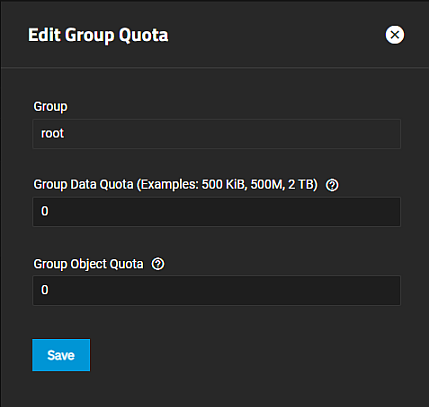
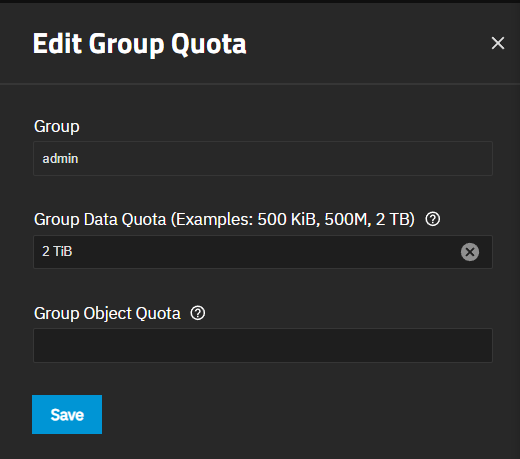
DOCS-2647 Update User and Group UI Ref Content
This commit updates the screenshots for user and group quotas, adds missing screenshots and content , and updates the settings and button descriptions to describe rather than instruct how to use them.

(cherry picked from commit 3db5910825ee510696d6ac558b915124d3840d82)

diff --git a/content/Datasets/Quotas/QuotaScreens.md b/content/Datasets/Quotas/QuotaScreens.md
@@ -12,47 +12,45 @@ doctype: reference
 TrueNAS allows setting data or object quotas for user accounts and groups cached on, or connected to the system.
 
 ## User Quotas Screen
-Select **Manage User Quotas** on the **Dataset Space Management** widget to open the **User Quotas** screen.
-The **User Quotas** screen displays names and quota data of user accounts cached on or connected to the system.
-If no users exist, the screen displays **No User Quotas** in the center of the screen.
 
-{{< trueimage src="/images/SCALE/Datasets/UserQuotasNoQuotasSCALE.png" alt="User Quotas Screen" id="User Quotas Screen" >}}
+**Manage User Quotas** on the **Dataset Space Management** card opens the **User Quotas** screen.
+The **User Quotas** screen shows the names and quota data for user accounts cached on or connected to the system.
+When no user quotas exist, the screen shows **No Search Results** and **No matching results found** in the center of the screen.
 
-The **Show All Users** toggle button displays all users or hides built-in users.
+{{< trueimage src="/images/SCALE/Datasets/UserQuotasNoQuotas.png" alt="User Quotas Screen Without Quotas" id="User Quotas Screen Withoug Quotas" >}}
 
-{< trueimage src="/images/SCALE/Datasets/UserQuotasDataQuotaSCALE.png" alt="User Quotas List View" id="User Quotas List View" >}}
+**Show All Users** shows the hidden builtin user quotas for the root and current logged-in admin user.
 
-**Add** opens the **[Set User Quotas](#set-user-quotas-screen)** screen.
+{{< trueimage src="/images/SCALE/Datasets/UserQuotaScreenWithBuiltinUsers.png" alt="User Quotas Showing Builtin Users" id="User Quotas Showing Builtin Users" >}}
 
-If you have several user quotas set up, the **Actions** options include **Set Quotas (Bulk)**.
+**Add** opens the **[Add User Quotas](#add-user-quotas-screen)** screen.
 
-Click on a user name to display the **[Edit User](#edit-user-configuration-window)** window.
+The **Edit** icon for a user opens the **[Edit User Quota ](#edit-user-configuration-window)** screen.
 
-### Edit User Configuration Window
-The **Edit User Quota** window allows you to modify the user data quota and user object quota values for an individual user.
+### Show All Users Dialogs
 
-{{< trueimage src="/images/SCALE/Datasets/EditUserQuotasSCALE.png" alt="Edit User Quota" id="Edit User Quota" >}}
+The **Show All Users** toggle opens the **Show All Users** dialog.
 
-Click **Save** to save changes or click the "X" to close the window without saving.
-{{< truetable >}}
-| Settings | Description |
-|----------|-------------|
-| **User** | Displays the name of the selected user. |
-| **User Data Quota (Examples: 500KiB, 500M, 2 TB)** | Enter the amount of disk space the selected user can use. Entering **0** allows the user to use all disk space. You can enter human-readable values such as 50 GiB, 500M, 2 TB, etc. If units are not specified, the value defaults to bytes.  |
-| **User Object Quota** | Enter the number of objects the selected user can own. Entering **0** allows unlimited objects. |
-{{< /truetable >}}
+{{< trueimage src="/images/SCALE/Datasets/ShowAllUsersDialog.png" alt="Show All Users Dialog" id="Show All Users Dialog" >}}
 
-### Set User Quotas Screen
-To display the **Set User Quotas** screen click the **Add** button.
+Clicking the **Show All Users** toggle again to hide builtin users, opens the **Filter Users** dialog.
 
-{{< trueimage src="/images/SCALE/Datasets/AddUserQuotasSetQuotasSCALE.png" alt="Set User Quotas" id="Set User Quotas" >}}
+{{< trueimage src="/images/SCALE/Datasets/FilterUsersDialog.png" alt="Filter Users Dialog" id="Filter Users Dialog" >}}
+
+**Filter** hides the builtin users on the **Users Quotas** screen.
+
+### Add User Quotas Screen
+
+The **Add User Quotas** screen shows settings in two sections: **Set Quotas** and **Apply Quotas to Selected Users**.
+
+{{< trueimage src="/images/SCALE/Datasets/AddUserQuotaScreen.png" alt="Add User Quotas" id="Add User Quotas" >}}
 
 {{< expand "Set Quotas Settings" "v" >}}
 {{< truetable >}}
 | Settings | Description |
 |----------|-------------|
-| **User Data Quota (Examples: 500KiB, 500M, 2 TB)** | Enter the amount of disk space the selected user can use. Entering **0** allows the user to use all disk space. You can enter human-readable values such as 50 GiB, 500M, 2 TB, etc. If units are not specified, the value defaults to bytes. |
-| **User Object Quota** | Enter the number of objects the selected user can own. Entering **0** allows unlimited objects. |
+| **User Data Quota (Examples: 500KiB, 500M, 2 TB)** | Specifies the amount of disk space the selected user can use. Entering **0** allows using all disk space. Values are entered as 50 GiB, 500M, 2 TB, etc. Not specifying a value defaults to bytes. |
+| **User Object Quota** | Specfies the number of objects the selected user can own. Entering **0** allows unlimited objects. |
 {{< /truetable >}}
 {{< /expand >}}
 
@@ -60,56 +58,71 @@ To display the **Set User Quotas** screen click the **Add** button.
 {{< truetable >}}
 | Settings | Description |
 |----------|-------------|
-| **Apply To Users** | Select the users from the dropdown list of options. |
+| **Apply To Users** | Sets the user from the dropdown list of options. |
 {{< /truetable >}}
-
-Click **Save** to set the quotas or click the "X" to exit without saving.
 {{< /expand >}}
 
-## Group Quotas Screens
-Click **Manage Group Quotas** on the **Dataset Space Management** widget to open the **Group Quotas** screen.
+**Save** sets the quotas and closes the screen.
+Clicking the **X** closes the screen without saving changes.
 
-The **Group Quotas** screen displays the names and quota data of any groups cached on or connected to the system.
-If no groups exist, the screen displays **No Group Quotas** in the center of the screen.
+### Edit User Configuration Window
 
-{{< trueimage src="/images/SCALE/Datasets/GroupQuotasNoQuotaSCALE.png" alt="Group Quotas Screen" id="Group Quotas Screen" >}}
+The **Edit User Quota** window allows you to modify the user data quota and user object quota values for an individual user.
 
-The **Show All Groups** toggle button displays all groups or hides built-in groups. **Add** displays the **[Set Group Quotas](#set-group-quotas-screen)** screen.
+{{< trueimage src="/images/SCALE/Datasets/EditUserQuotaScreen.png" alt="Edit User Quota" id="Edit User Quota" >}}
 
-If you have several group quotas set up, the **Actions** options include **Set Quotas (Bulk)**.
+**Save** sets the quota changes and closes the screen.
+Clicking the "X" closes the screen without saving changes.
 
-Click on a group name to display the **[Edit Group](#edit-group-configuration-window)** window.
-
-!{{< trueimage src="/images/SCALE/Datasets/GroupQuotasVideoQuotaSCALE.png" alt="Group Quotas List View" id="Group Quotas List View" >}}
-
-### Edit Group Configuration Window
-The **Edit Group** window allows you to modify the group data quota and group object quota values for an individual group.
-
-{{< trueimage src="/images/SCALE/Datasets/EditGroupQuotasScreen.png" alt="Edit Group Quota" id="Edit Group Quota" >}}
-
-Click **Save** to set the quotas or click the "X" to exit without saving.
-
-{{< expand "Edit Group Configuration Settings" "v" >}}
 {{< truetable >}}
 | Settings | Description |
 |----------|-------------|
-| **Group** | Displays the name of the selected group(s).  |
-| **Group Data Quota (Examples: 500KiB, 500M, 2 TB)** | Enter the amount of disk space the selected group can use. Entering **0** allows the group to use all disk space. You can enter human-readable values such as 50 GiB, 500M, 2 TB, etc. If units are not specified, the value defaults to bytes. |
-| **Group Object Quota** | Enter the number of objects the selected group can own or use. Entering **0** allows unlimited objects. |
+| **User** | Shows the name of the selected user and it is not editable. |
+| **User Data Quota (Examples: 500KiB, 500M, 2 TB)** | Specifies the amount of disk space the selected user can use. Entering **0** allows using all disk space. Values are entered as 50 GiB, 500M, 2 TB, etc. Not specifying a value defaults to bytes. |
+| **User Object Quota** | Specifies the number of objects the selected user can own. Entering **0** allows unlimited objects. |
 {{< /truetable >}}
-{{< /expand >}}
 
-### Set Group Quotas Screen
-To display the **Set Group Quotas** screen, click the **Add** button.
+## Group Quotas Screens
 
-{{< trueimage src="/images/SCALE/Datasets/AddGroupQuotasSetQuotaSCALE.png" alt="Set Group Quotas" id="Set Group Quotas" >}}
+**Manage Group Quotas** on the **Dataset Space Management** card opens the **Group Quotas** screen.
+
+The **Group Quotas** screen shows the names and quota data of any groups cached on or connected to the system.
+When no group quotas exist, the screen shows **No Search Results** and **No matching results found** in the center of the screen.
+
+{{< trueimage src="/images/SCALE/Datasets/GroupQuotasScreenNoQuotas.png" alt="Group Quotas Screen Without Quotas" id="Group Quotas Screen Witout Quotas" >}}
+
+The **Show All Groups** toggle opens the **Show All Groups** dialog. **Show** shows the hidden builtin user group quotas for the root and current logged-in admin user.
+
+{{< trueimage src="/images/SCALE/Datasets/GroupQuotaScreenWithBuiltinGroups.png" alt="User Quotas Showing Builtin Groups" id="User Quotas Showing Builtin Groups" >}}
+
+**Add** opens the **[Add Group Quotas](#add-group-quotas-screen)** screen.
+
+The **Edit** icon for a group opens the **[Edit Group Quota ](#edit-group-configuration-window)** screen.
+
+### Show All Groups Dialogs
+
+The **Show All Groups** toggle opens the **Show All Groups** dialog.
+
+{{< trueimage src="/images/SCALE/Datasets/ShowAllGroupsDialog.png" alt="Show All Groups Dialog" id="Show All Groups Dialog" >}}
+
+Clicking the **Show All Groups** toggle again to hide builtin users, opens the **Filter Groups** dialog.
+
+{{< trueimage src="/images/SCALE/Datasets/FilterGroupsDialog.png" alt="Filter Groups Dialog" id="Filter Gilter Dialog" >}}
+
+**Filter** hides the builtin groups on the **Group Quotas** screen.
+
+### Add Group Quotas Screen
+
+The **Add Group Quotas** screen shows settings in two sections: **Set Quotas** and **Apply Quotas to Selected Groups**.
+
+{{< trueimage src="/images/SCALE/Datasets/AddGroupQuotasScreen.png" alt="Add Group Quotas Screen" id="Add Group Quotas Screen" >}}
 
 {{< expand "Set Quotas Settings" "v" >}}
 {{< truetable >}}
 | Settings | Description |
 |----------|-------------|
-| **Group Data Quota (Examples: 500KiB, 500M, 2 TB)** | Enter the amount of disk space the selected group can use. Entering **0** allows the group to use all disk space. You can enter human-readable values such as 50 GiB, 500M, 2 TB, etc. If units are not specified, the value defaults to bytes. |
-| **Group Object Quota** | Enter the number of objects the selected group can own or use. Entering **0** allows unlimited objects. |
+| **Group Data Quota (Examples: 500KiB, 500M, 2 TB)** | Specifies the amount of disk space the selected group can use. ntering **0** allows using all disk space. Values are entered as 50 GiB, 500M, 2 TB, etc. Not specifying a value defaults to bytes. |
+| **Group Object Quota** | Specifies the number of objects the selected group can own or use. Entering **0** allows unlimited objects. |
 {{< /truetable >}}
 {{< /expand >}}
 
@@ -117,6 +130,28 @@ To display the **Set Group Quotas** screen, click the **Add** button.
 {{< truetable >}}
 | Settings | Description |
 |----------|-------------|
-| **Apply To Groups** | Select groups from the dropdown list of options. |
+| **Apply To Groups** | Sets the group from the dropdown list of options. |
+{{< /truetable >}}
+{{< /expand >}}
+
+**Save** sets the quota changes and closes the screen.
+Clicking the "X" closes the screen without saving changes.
+
+### Edit Group Quotas Screen
+
+The **Edit Group** window allows you to modify the group data quota and group object quota values for an individual group.
+
+{{< trueimage src="/images/SCALE/Datasets/EditGroupQuotasScreen.png" alt="Edit Group Quota" id="Edit Group Quota" >}}
+
+**Save** sets the quota changes and closes the screen.
+Clicking the "X" closes the screen without saving changes.
+
+{{< expand "Edit Group Settings" "v" >}}
+{{< truetable >}}
+| Settings | Description |
+|----------|-------------|
+| **Group** | Shows the name of the selected groupand it is not editable. |
+| **Group Data Quota (Examples: 500KiB, 500M, 2 TB)** | Specifies the amount of disk space the selected group can use. ntering **0** allows using all disk space. Values are entered as 50 GiB, 500M, 2 TB, etc. Not specifying a value defaults to bytes. |
+| **Group Object Quota** | Sets the number of objects the selected group can own or use. Entering **0** allows unlimited objects. |
 {{< /truetable >}}
 {{< /expand >}}
